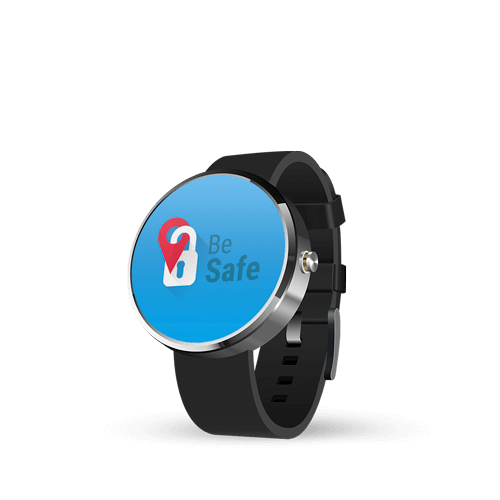
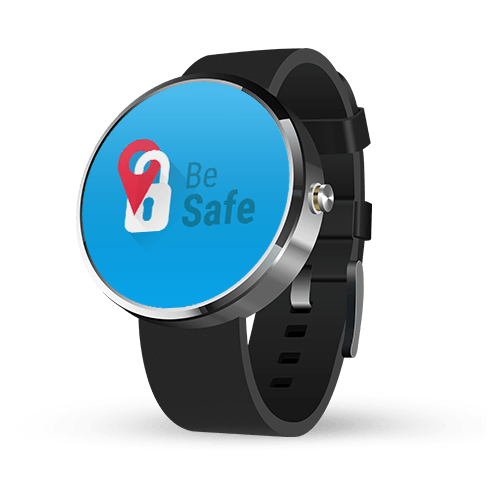
Adds besafe project page

Changed region(s): [[0.15, 0.09, 0.75, 0.9], [0.54, 0.75, 0.57, 0.78]]

diff --git a/app/assets/besafe/index.html b/app/assets/besafe/index.html
@@ -1,0 +1,89 @@
+<!DOCTYPE html>
+<head>
+  <meta charset="utf-8">
+  <meta name="viewport" content="width=device-width">
+  <title>Diego Hainzenreder - BeSafe</title>
+  <link rel="stylesheet" href="/app.css">
+  <link rel="shortcut icon" href="../images/favicon.png" />
+  <script src="/vendor.js"></script>
+  <script src="/app.js"></script>
+  <script>require('initialize');</script>
+</head>
+<body>
+  <header>
+    <a href="/">
+      <div class="logo"></div>
+    </a>
+    <a href="#menu">
+      <div class="ic-menu">
+        <div class="ic-menu-bar"></div>
+        <div class="ic-menu-bar"></div>
+        <div class="ic-menu-bar"></div>
+      </div>
+    </a>
+  </header>
+  <ul class="container">
+      <li class="panel">
+        <div>
+          <h1>BeSafe</h1>
+          <p class="p1">Google I/O Extended Hackathon '15 Android Wear App</p>
+        </div>
+      </li>
+      <li class="panel">
+        <div class="project-description">
+          <p class="p3">BeSafe App came to light at the Google I/O Extended Hackathon ‘15 for Android Wear that took place at the GDG Porto Alegre. The goal is: make the city safer. Is an audacious goal but we belive it’s important to take the first step. We put together two developers friends with two designers friends to have fun during this day. The idea is to have a collaborative network of unsafe places. As the user walks through the city he is notified when approaching an unsafe area and places where they were reported as unsafe by other users. For development, we use very interesting structures, such as GeoFences , Parse , Maps on Wearable among others. Of course we go through difficulties , such as using the Maps API in Wearable , which was available for less than 36 hours. During the day and in the face of difficulties, we chose to focus on the most important feature: inform the user that they are entering an unsafe area. And we did it :)</p>
+          <p class="p3">After good hours of development, we integrate the backend, the mobile and the clock to deliver (or attempt to) a little more security for users. It was quite fun and besides coffee and pizza, the GDG staff managed to film our main feature running.</p>
+          <p class="p3">Many thanks to GDG staff that helped us all day to make it happen!</p>
+        </div>
+      </li>
+      <li class="panel panel__border--none">
+        <img class="presentation-image presentation-image__right" src="../images/besafe-01.png" srcset="../images/besafe-01@2x.png 2x">
+        <p class="project-screen-description">// App Icon</p>
+      </li>
+      <li class="panel panel__border--none">
+        <img class="presentation-image" src="../images/besafe-02.png" srcset="../images/besafe-02@2x.png 2x">
+      </li>
+      <li class="panel panel__border--none">
+        <img class="presentation-image" src="../images/besafe-03.png" srcset="../images/besafe-03@2x.png 2x">
+        <p class="project-screen-description">// App - Instructions</p>
+      </li>
+      <li class="panel panel__border--none">
+        <img class="presentation-image" src="../images/besafe-04.png" srcset="../images/besafe-04@2x.png 2x">
+        <p class="project-screen-description">// Watch - Activate</p>
+      </li>
+      <li class="panel panel__border--none">
+        <img class="presentation-image" src="../images/besafe-05.png" srcset="../images/besafe-05@2x.png 2x">
+        <p class="project-screen-description">// Watch - Alert Danger Zone</p>
+      </li>
+      <li class="panel panel__border--none">
+        <img class="presentation-image" src="../images/besafe-06.png" srcset="../images/besafe-06@2x.png 2x">
+        <p class="project-screen-description">// Watch - Danger Zone Map</p>
+      </li>
+      <li class="panel panel__border--none">
+        <img class="presentation-image" src="../images/besafe-07.png" srcset="../images/besafe-07@2x.png 2x">
+        <p class="project-screen-description">// Watch - Report</p>
+      </li>
+      <li class="panel panel__border--none">
+        <img class="presentation-image" src="../images/besafe-08.png" srcset="../images/besafe-08@2x.png 2x">
+        <p class="project-screen-description">// Watch - Alert Person In Danger</p>
+      </li>
+      <li class="panel panel__border--none">
+        <img class="presentation-image" src="../images/besafe-09.png" srcset="../images/besafe-09@2x.png 2x">
+        <p class="project-screen-description">// Watch - Call Police</p>
+      </li>
+      <li class="panel panel__border--none">
+        <img class="presentation-image" src="../images/besafe-10.png" srcset="../images/besafe-10@2x.png 2x">
+        <p class="project-screen-description">// Watch - Help</p>
+      </li>
+    <li id="menu" class="panel menu">
+      <div>
+        <ul>
+          <li class="menu-item"><a href="/">Work</a></li>
+          <li class="menu-item"><a href="/almost">Almost</a></li>
+          <li class="menu-item"><a href="/about">About</a></li>
+          <li class="menu-item"><a href="/contact">Contact</a></li>
+        </ul>
+      </div>
+    </li>
+  </ul>
+</body>
